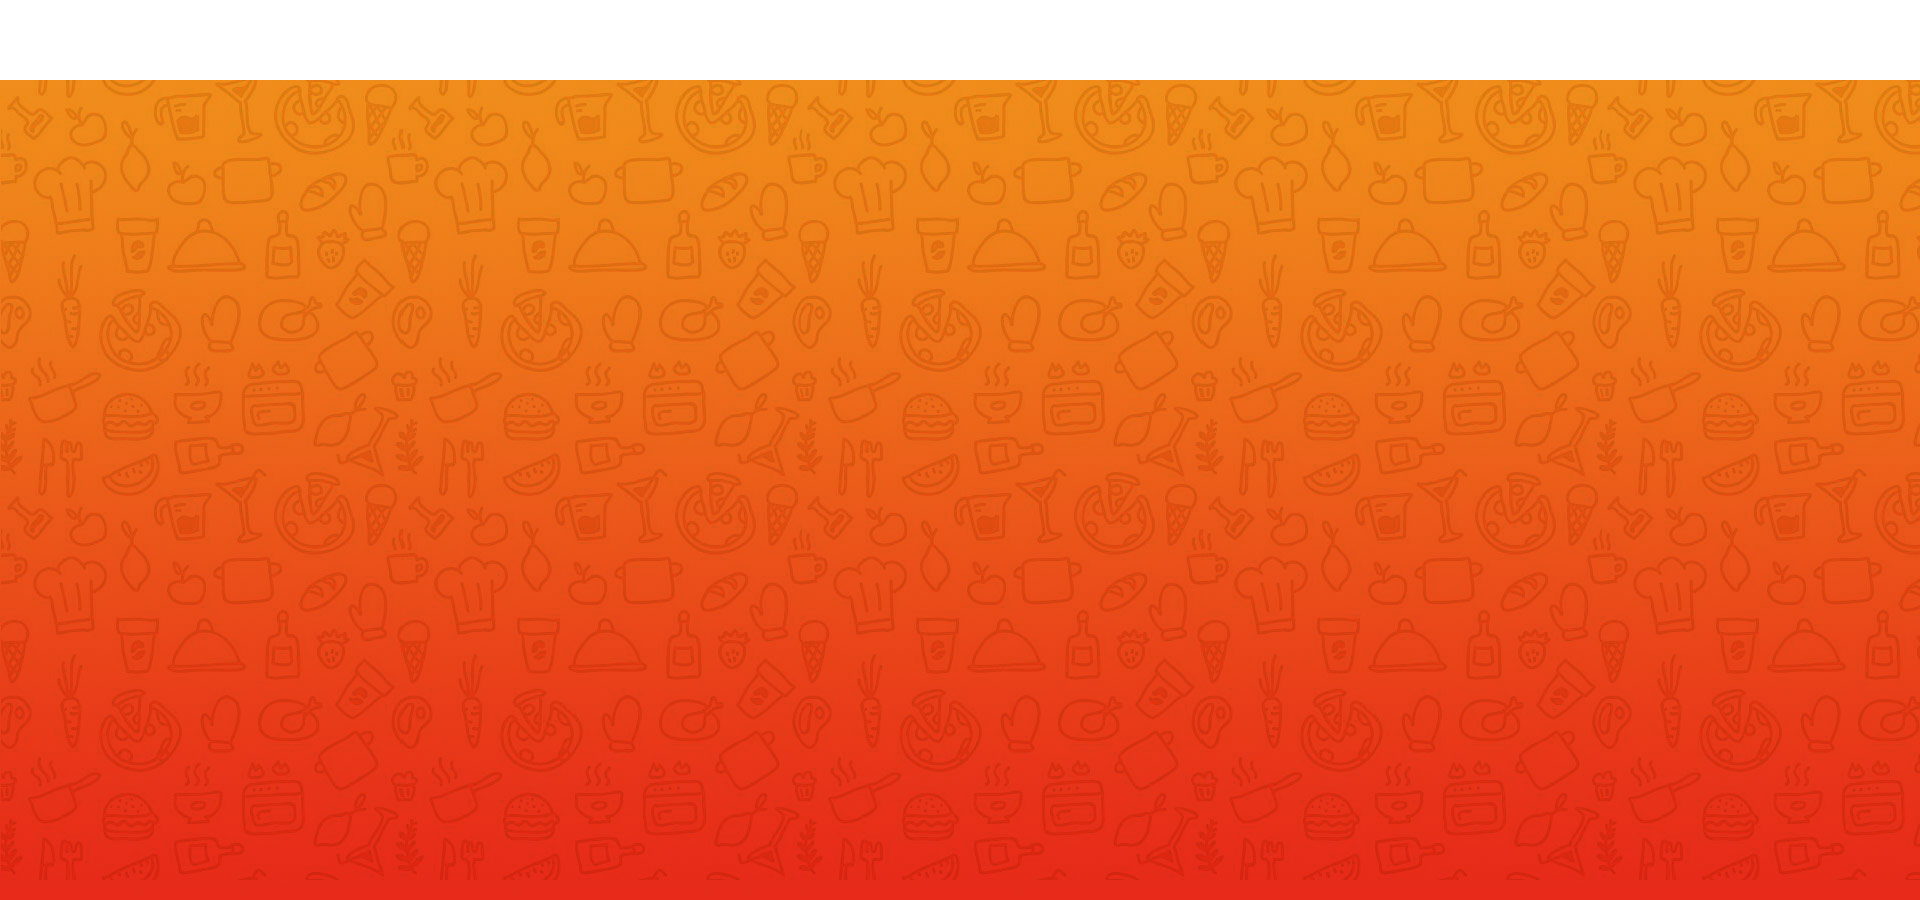
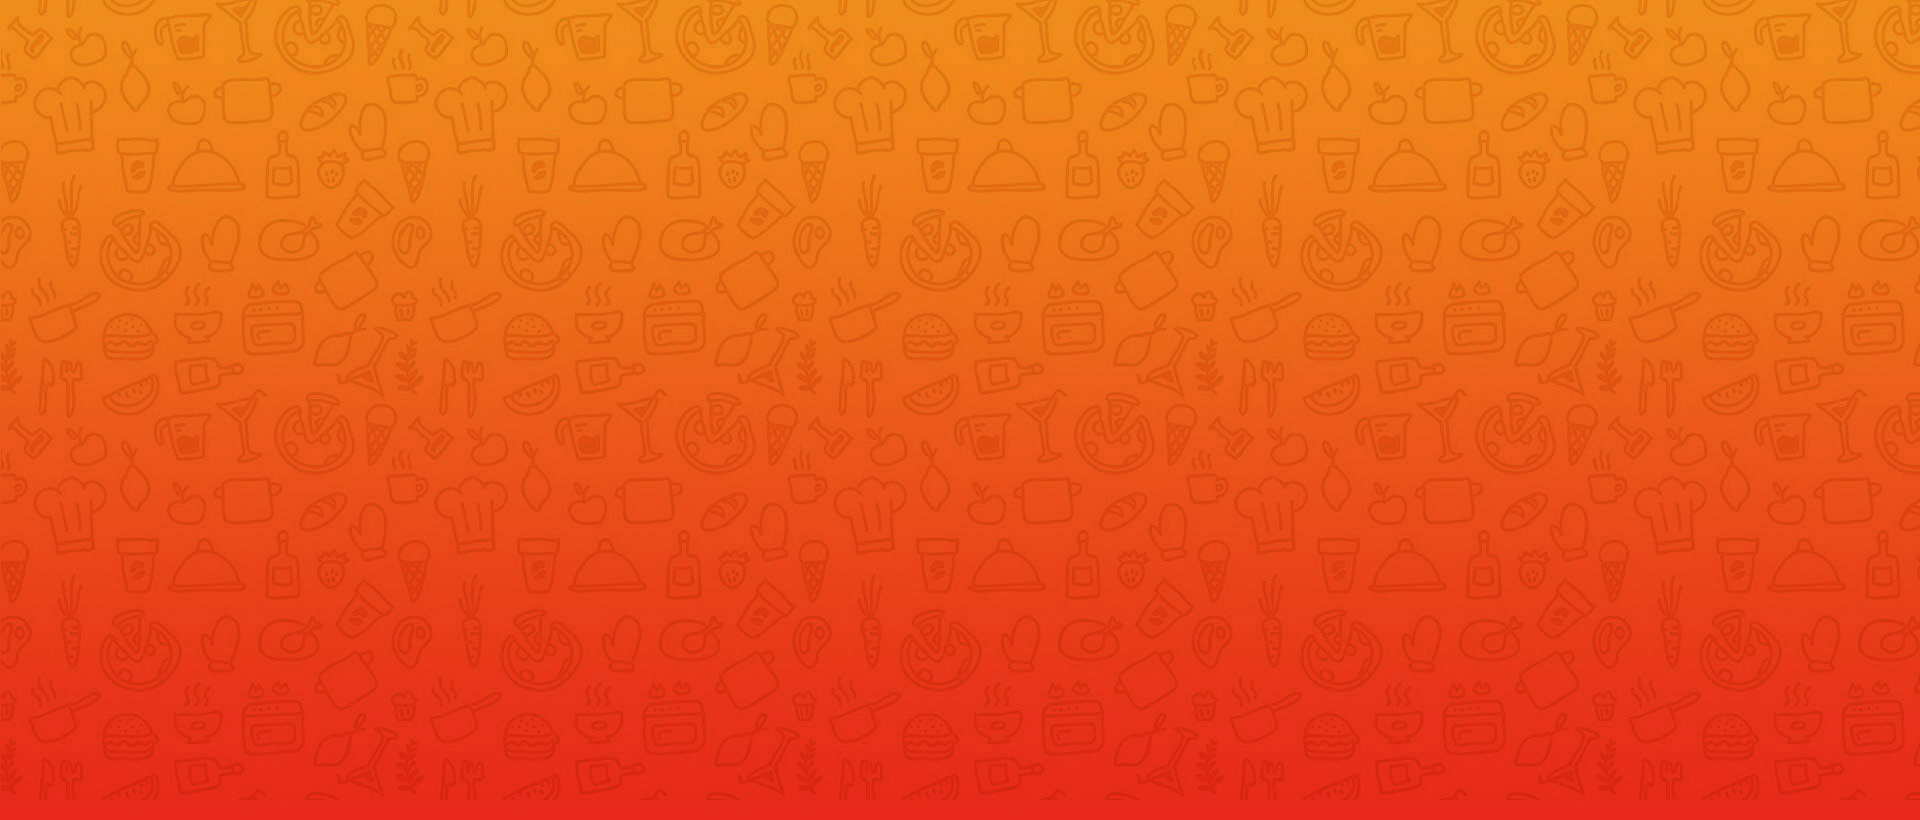
需求修改

Changed region(s): [[0.0, 0.0, 1.0, 0.0915]]

diff --git a/public/stylesheets/base.css b/public/stylesheets/base.css
@@ -8,7 +8,7 @@ font-size:14px;
 font-family:'微软雅黑',Tahoma,Arial,Helvetica, sans-serif;
 *font-family:'微软雅黑';
 color:#333;
-background:url(../images/bg-home.jpg) no-repeat top center #e72a19;
+line-height:1.2;
 }
 a{text-decoration:none;color:#333;}
 a:hover{color:#ffa63c;}
@@ -26,6 +26,7 @@ a:hover{color:#ffa63c;}
 /*--from now--*/
 .header{ background:#e83019; height:80px;}
 .wrapper{width:900px;margin:0 auto;text-align:left; position:relative;}
+.box{background:url(../images/bg-home.jpg) no-repeat top center #e72a19; min-height:800px;}
 .header .logo{ display:inline-block; background:url(../images/logo-small.png) no-repeat; width:159px; height:54px; text-indent:-9999px; margin-top:13px;}
 
 .wrapper .content{ width:538px; float:left; padding-top:52px; padding-left:70px;}
@@ -42,6 +43,34 @@ a.android span{ display:inline-block; background:url(../images/android.png) no-r
 .float-wechat p img{ margin-top:10px;}
 .float-wechat p.contact{ font-size:20px;}
 .ie{_position: absolute;_clear: both;_top:expression(eval(document.compatMode && document.compatMode=='CSS1Compat') ? documentElement.scrollTop +(documentElement.clientHeight-this.clientHeight) - 20 :document.body.scrollTop +(document.body.clientHeight-this.clientHeight) - 20);}
+
+.investment{ background:url(../images/bg-home1.jpg) no-repeat center; height:574px;}
+.investment p{ width:1181px; margin:0 auto; position:relative; padding-top:20px;}
+.investment .triangel{ position:absolute; background:url(../images/bg-triangel.png) no-repeat; width:77px; height:35px; bottom:-46px; left:552px; display:block;}
+
+.header-b .logo{ width:38%; float:left; text-align:right; padding-right:2%;}
+.header-b .slogon{ width:58%; float:left; background:#f5ad6c; color:#fff; font-size:30px; height:86px; line-height:86px; padding-left:2%;}
+.header-b .slogon span{ font-size:20px;}
+
+.banner{ background:url(../images/banner.jpg) no-repeat center; height:530px; border-top:40px solid #f6f6f6;}
+
+.content-b{ width:1172px; margin:0 auto;}
+.content-b h2{ font-size:42px; text-align:center; color:#ec651c; padding:30px 0;}
+.content-b p{ font-size:20px; padding-bottom:30px;}
+
+.core{ background:url(../images/bg-img.jpg) repeat-x; height:1207px; text-align:center; padding-top:40px;}
+.partner{width:1106px; margin:0 auto; position:relative; text-align:center; height:504px;}
+.partner .img{ background:url(../images/bg-banner.png) no-repeat; display:block; width:471px; height:316px; position:absolute; top:83px; right:164px;}
+.partner h2{font-size:42px; padding-top:90px; padding-bottom:262px; }
+.partner p{ font-size:38px; }
+
+.qualify{ background:#f5aa69;}
+.qualify .content-b{ width:1000px;}
+.qualify .black,.footer .black{ color:#000 !important;}
+.qualify  ol{ padding-bottom:30px;}
+.qualify  ol li{ margin-left:20px; font-size:20px;list-style:decimal; padding-bottom:10px;}
+
+.footer{ text-align:center;}
 
 
 
